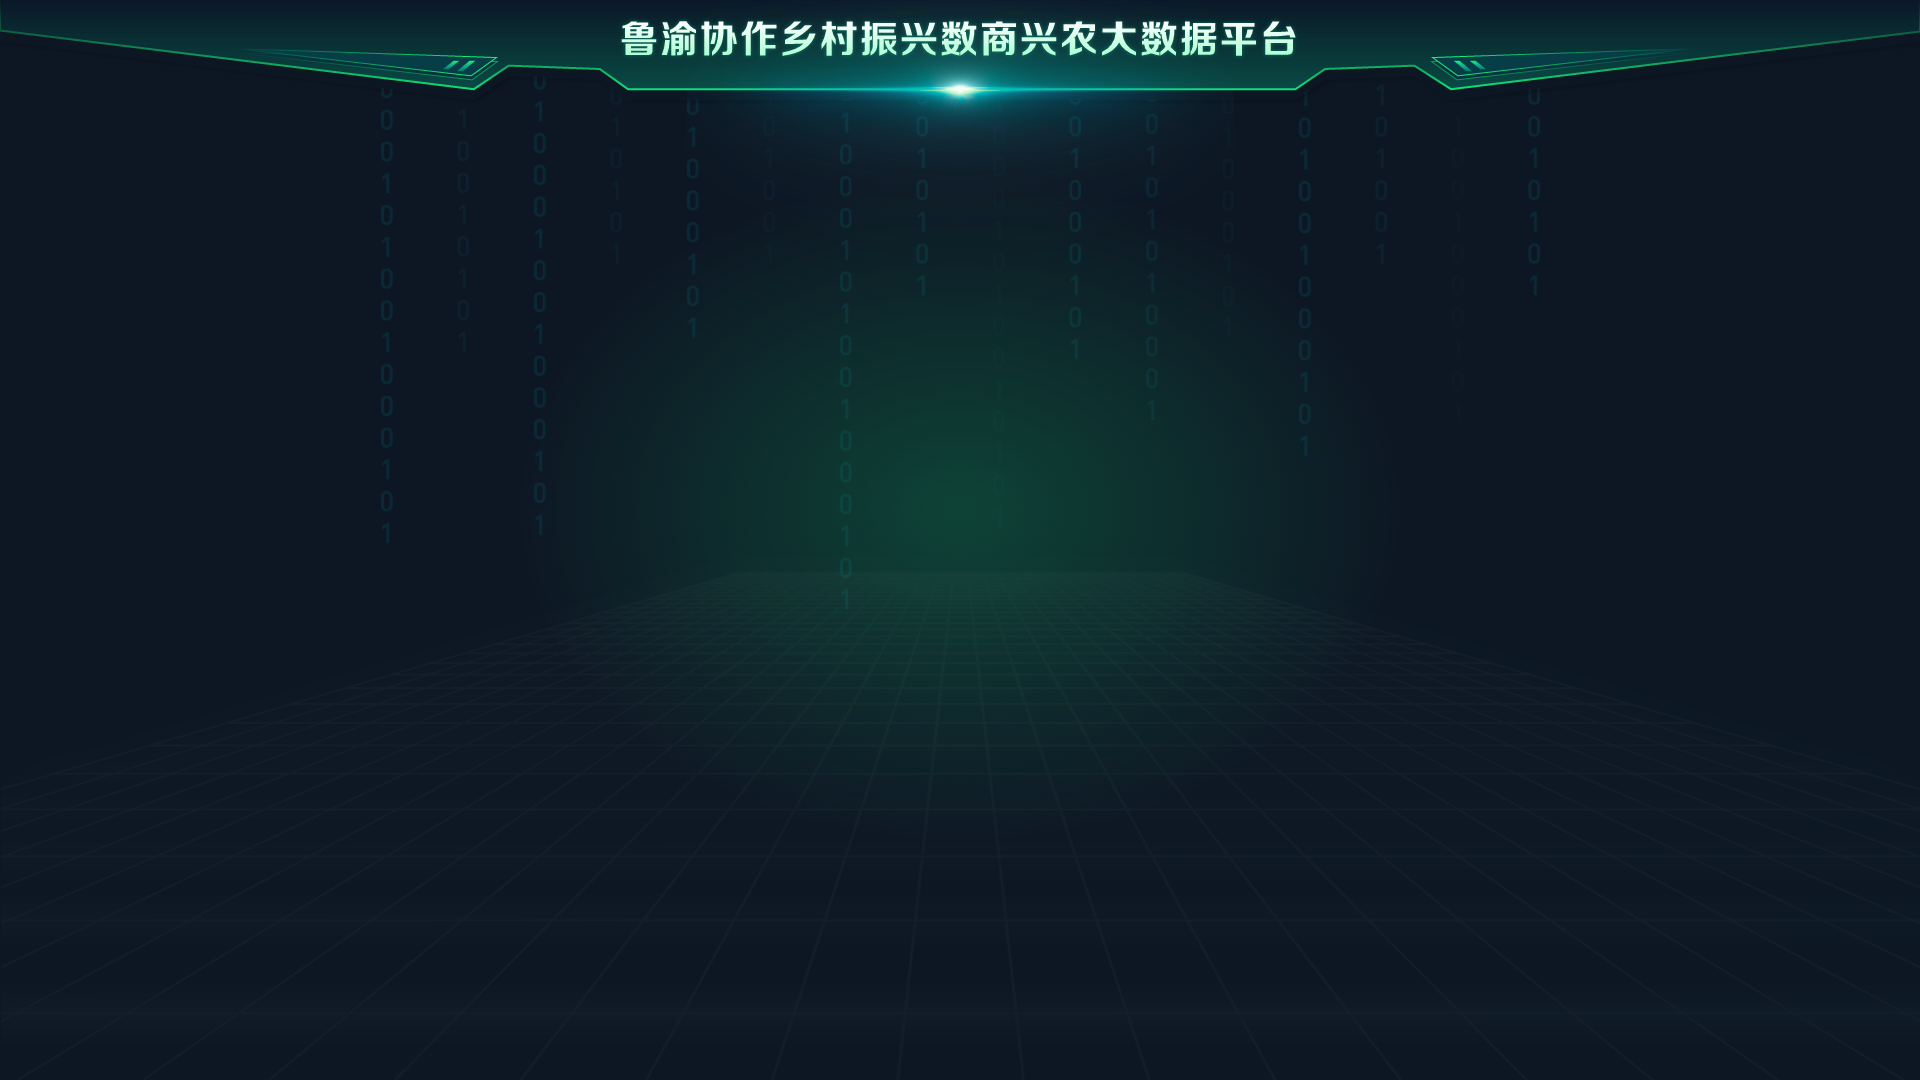
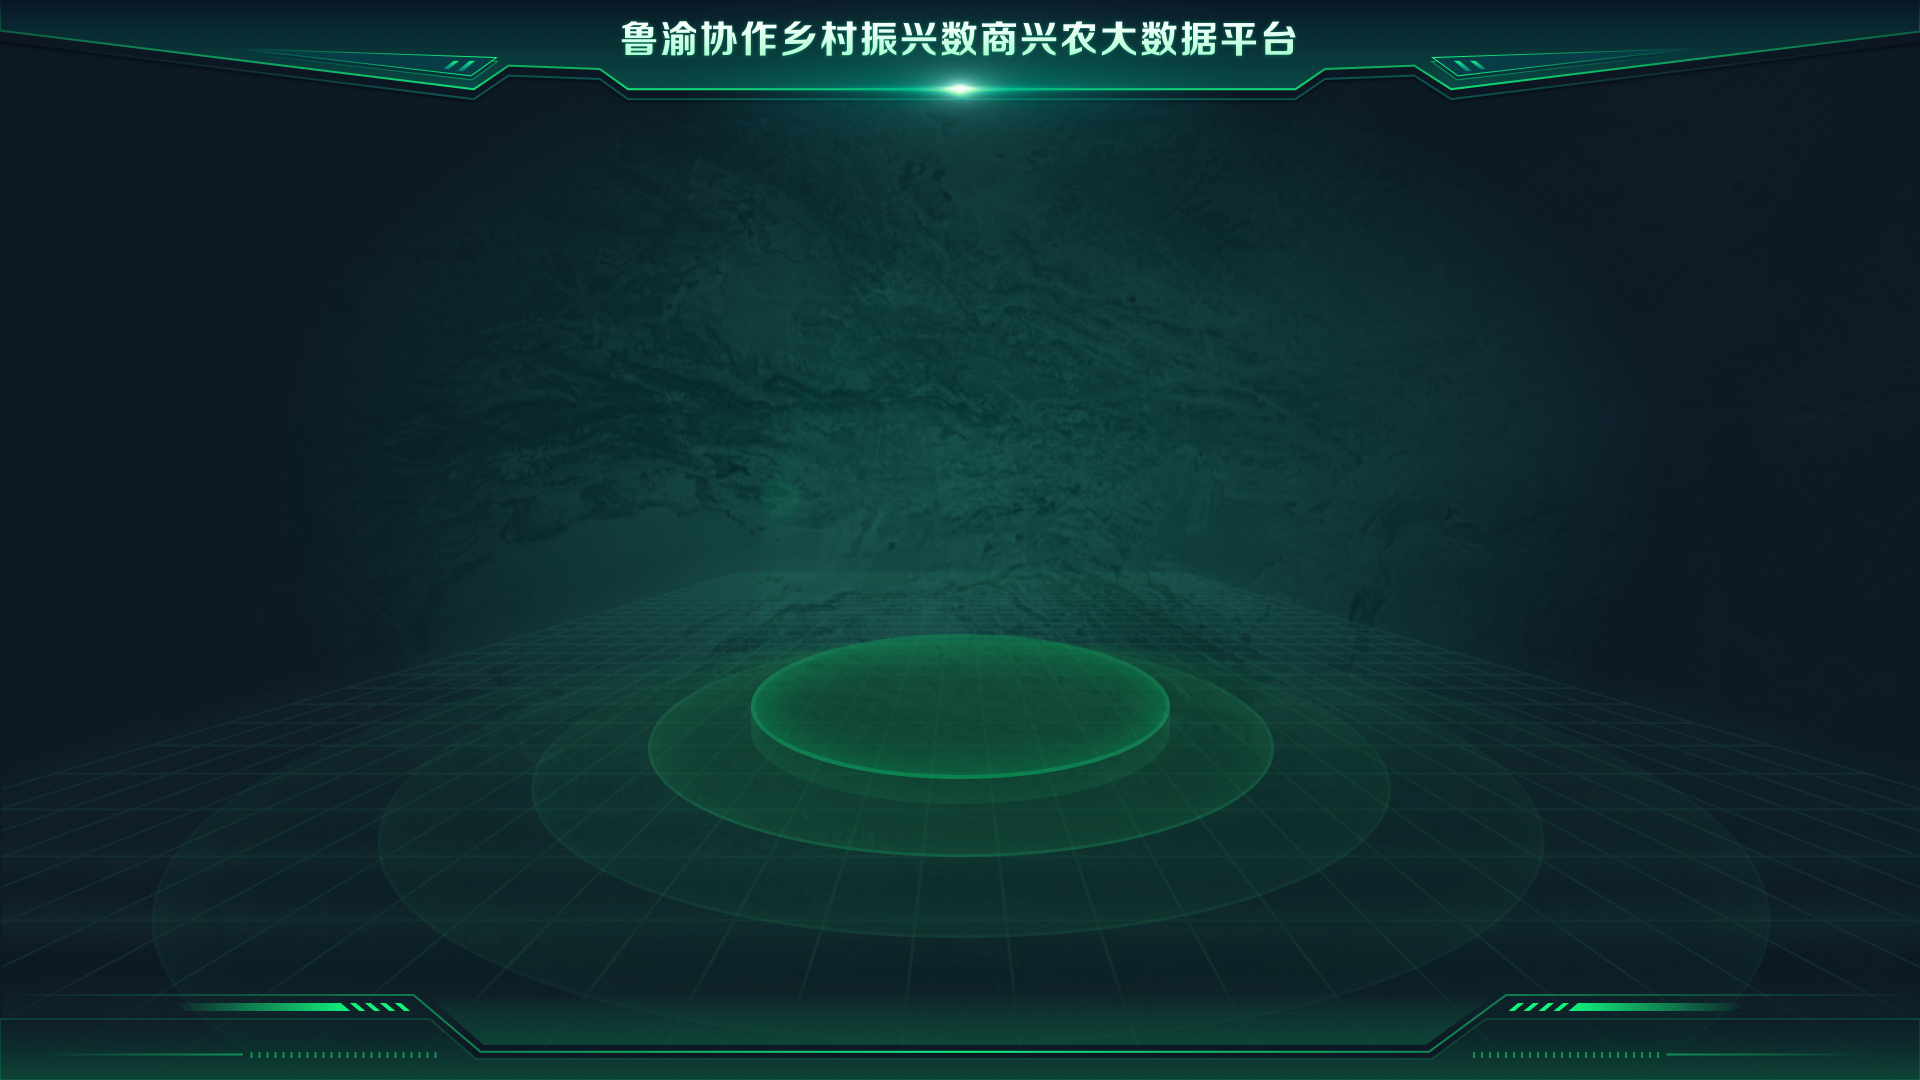
feat:  /homeIndex 页面重新设计对应修改

diff --git a/src/views/homePages/home.vue b/src/views/homePages/home.vue
@@ -60,7 +60,7 @@
                 @click="routerHandler('可视化驾驶舱')"
               ></div>
             </div>
-            <div class="monitor-detect" @click="routerHandler('模型监测')"></div>
+            <!-- <div class="monitor-detect" @click="routerHandler('模型监测')"></div> -->
             <!-- 两侧菜单 -->
             <div class="rect-bg text-[#fff] text-[1.2em] relative cursor-default">
               <div class="absolute left-[-14rem] top-0 w-[17rem] h-full flex flex-col justify-between py-[2.5rem] box-border">
@@ -145,6 +145,26 @@
               <div class="right-decorator"></div>
               <div class="right-arrow"></div>
             </div>
+          </div>
+        </div>
+        <div
+          class="
+            w-full py-3 justify-center
+            absolute bottom-[50px] space-x-[36px]
+            left-0 flex items-center
+          "
+        >
+          <div class="flex items-center" @click="routerHandler('模型监测')">
+            <div class="w-120px h-106px bottom-icon-1"></div>
+            <div class="flex items-center justify-center bottom-label">生长监测</div>
+          </div>
+          <div class="flex items-center" @click="routerHandler('产品溯源')">
+            <div class="w-120px h-106px bottom-icon-2"></div>
+            <div class="flex items-center justify-center bottom-label">产品溯源</div>
+          </div>
+          <div class="flex items-center" @click="routerHandler('病虫监测')">
+            <div class="w-120px h-106px bottom-icon-3"></div>
+            <div class="flex items-center justify-center bottom-label">病虫监测</div>
           </div>
         </div>
       </div>
@@ -235,7 +255,10 @@ const routerHandler = (item: string) => {
     '数字产销': '/pcg/production/village-product',
     '智慧农事': '/farm_work/crop-base',
     // '模型监测': '/growth_monitor/modelMonitor',
-    '模型监测': '/growthMonitoringModelDataCenter'
+    '模型监测': '/growthMonitoringModelDataCenter',
+
+    '产品溯源': '/trace/product-trace-erdu',
+    '病虫监测': '/disease_pest_surveillance/disease-pest-surveillance',
   }
 
   if (routeMap[item]) {
@@ -269,6 +292,22 @@ const loginOut = async () => {
   background-image: url(./assets/homeV2/bg.png);
   background-size: 100% 100%;
   font-size: 12px;
+}
+
+@for $i from 1 through 3 {
+  .bottom-icon-#{$i} {
+    background-image: url(./assets/homeV2/bottomIcon#{$i}.png);
+    background-size: 100% 100%;
+  }
+}
+
+.bottom-label {
+  width: 150px;
+  height: 50px;
+  font-size: 24px;
+  color: #d5f1e3;
+  background-image: url(./assets/homeV2/bottomLabel.png);
+  background-size: 100% 100%;
 }
 
 @media (min-width: 600px) {
